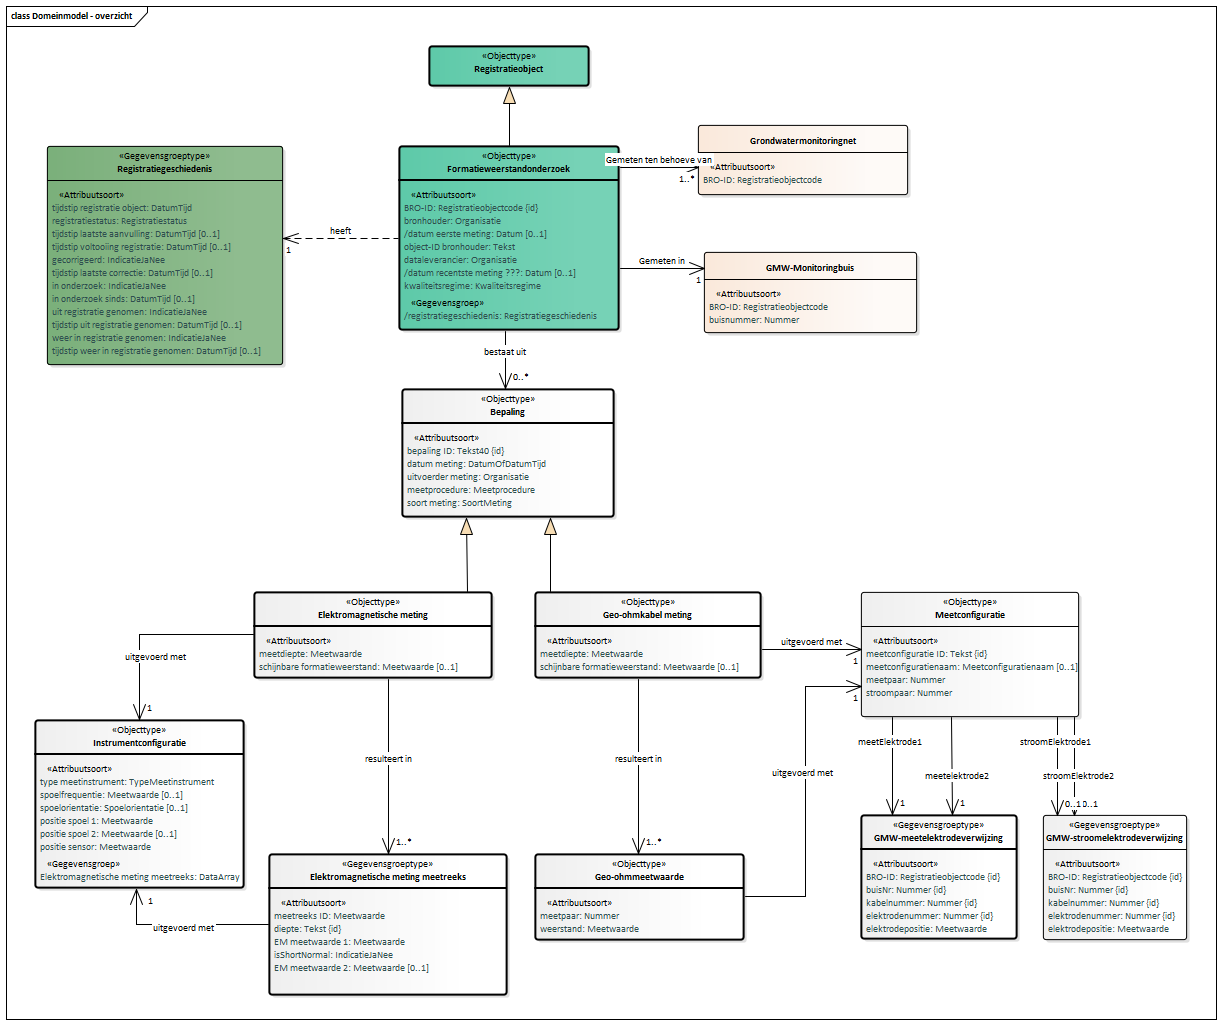
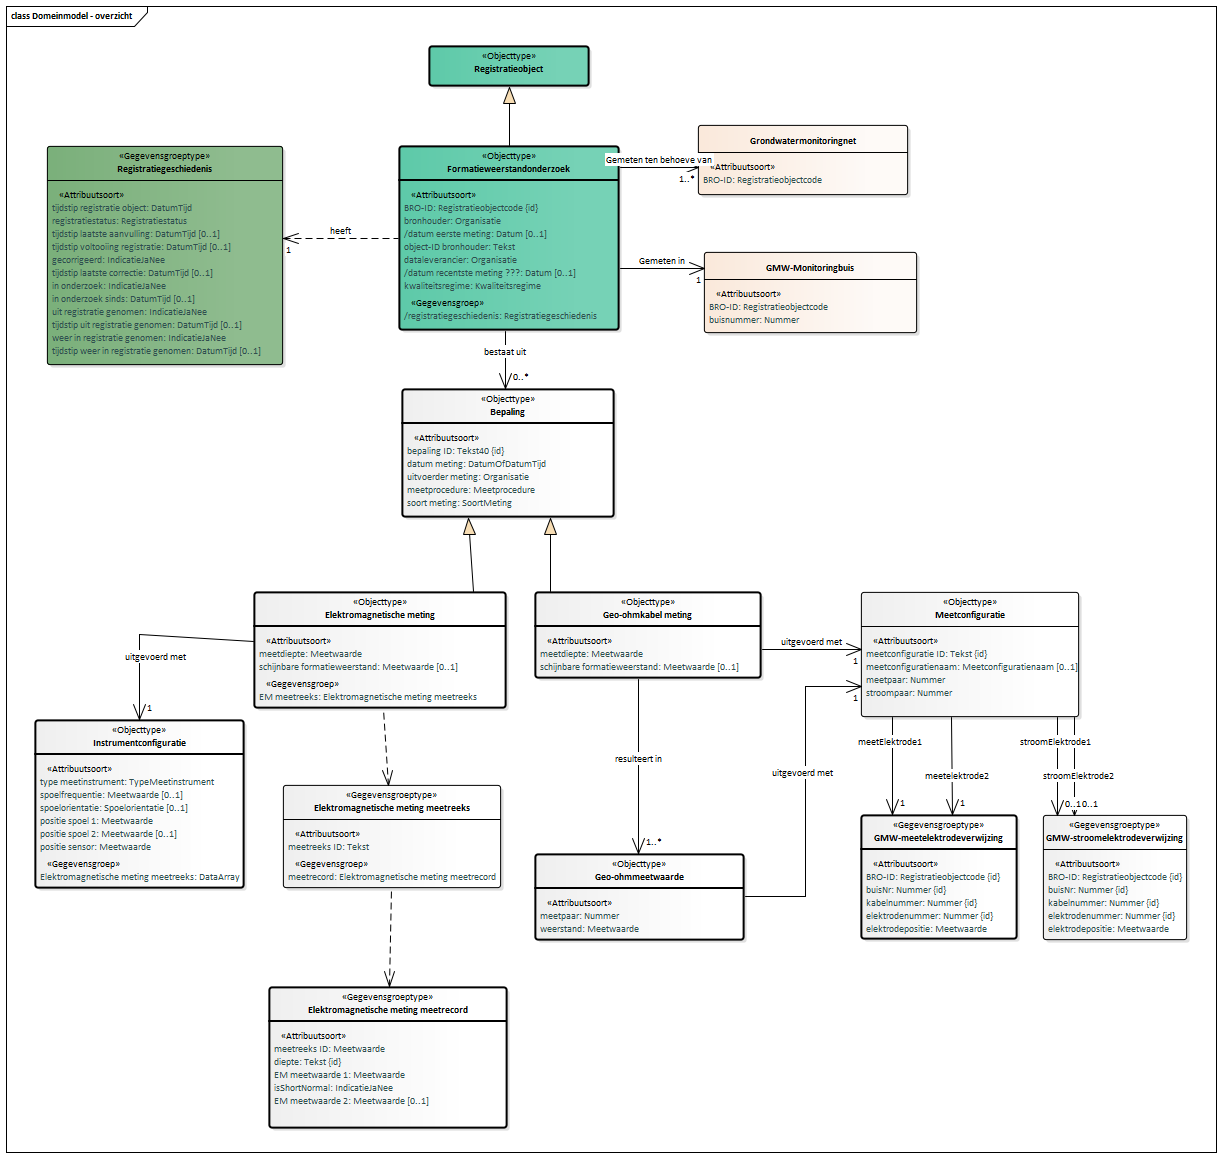
Conceptualmodel-FormatieweerstandonderzoekFRDconceptueel-0.1-1-20200401-20200814-160755

diff --git a/data/FRD-cat.msword.html b/data/FRD-cat.msword.html
@@ -15,7 +15,7 @@
    <body>
       <p>Conceptual model/Formatieweerstand onderzoek (FRD) conceptueel/20200401</p>
       <p>Imvertor: 1.61.2</p>
-      <p>Model release: Conceptualmodel-FormatieweerstandonderzoekFRDconceptueel-0.1-1-20200401-20200814-154055</p>
+      <p>Model release: Conceptualmodel-FormatieweerstandonderzoekFRDconceptueel-0.1-1-20200401-20200814-160755</p>
       <hr>
       <section>
          <h1>Artikel 1 Definitie van registratieobject, entiteiten en attributen</h1>
@@ -60,7 +60,7 @@
          <section>
             <h2>Het domeinmodel</h2>
             <section id="">
-               <div class="imageinfo overview"><img src="Images/EAID_0B3602DB_544E_4f6f_A6E2_DDE4A8A6790E.png" usemap="#imagemap-EAID_0B3602DB_544E_4f6f_A6E2_DDE4A8A6790E" alt="Diagram "><map name="imagemap-EAID_0B3602DB_544E_4f6f_A6E2_DDE4A8A6790E"><area shape="rect" alt="GMW-stroomelektrodeverwijzing" coords="1043,815,1187,940" href="#graph_EAID_561565B3_15F2_4942_B5C4_E03BCE867EEE"><area shape="rect" alt="Geo-ohmmeetwaarde" coords="535,854,744,940" href="#graph_EAID_0E73504D_4081_4ea3_A7AA_1FB27FBC227B"><area shape="rect" alt="Instrumentconfiguratie" coords="35,720,244,888" href="#graph_EAID_C4102470_4315_4bda_9B2A_59EDEA9E2834"><area shape="rect" alt="Meetconfiguratie" coords="861,592,1079,717" href="#graph_EAID_04636D26_BFC4_4838_AC91_21BB2BF62212"><area shape="rect" alt="Elektromagnetische meting meetreeks" coords="269,854,507,995" href="#graph_EAID_17DB4860_7353_467e_89CD_5018D22D8A43"><area shape="rect" alt="Elektromagnetische meting" coords="254,592,492,678" href="#graph_EAID_A1A80DF7_7D38_4063_8DE9_80EDAAF846B4"><area shape="rect" alt="Geo-ohmkabel meting" coords="535,592,761,678" href="#graph_EAID_16AE0361_B385_4410_A632_F5CDCEEC8FD1"><area shape="rect" alt="GMW-meetelektrodeverwijzing" coords="861,815,1017,939" href="#graph_EAID_EFFFB8A0_3810_43f9_83F1_FC48EFD1FE4E"><area shape="rect" alt="Bepaling" coords="402,389,614,517" href="#graph_EAID_D3B48B39_96CC_4f01_91F1_BDF0B725CD8A"><area shape="rect" alt="Registratiegeschiedenis" coords="47,146,283,365" href="#graph_EAID_0451B041_6862_420f_9E12_9829516BAF81"><area shape="rect" alt="Formatieweerstandonderzoek" coords="399,146,619,330" href="#graph_EAID_F03C2FC8_5705_46dc_927D_01B7EC61C2F2"><area shape="rect" alt="Registratieobject" coords="429,46,589,86" href="#graph_EAID_5706F7F6_075B_46d6_A47D_7DCF1EEB21B7"></map><p><b>Domeinmodel</b></p>
+               <div class="imageinfo overview"><img src="Images/EAID_0B3602DB_544E_4f6f_A6E2_DDE4A8A6790E.png" usemap="#imagemap-EAID_0B3602DB_544E_4f6f_A6E2_DDE4A8A6790E" alt="Diagram "><map name="imagemap-EAID_0B3602DB_544E_4f6f_A6E2_DDE4A8A6790E"><area shape="rect" alt="Elektromagnetische meting meetreeks" coords="283,785,501,888" href="#graph_EAID_33450642_9C84_4c07_AFE3_FB734FBA8DBB"><area shape="rect" alt="GMW-stroomelektrodeverwijzing" coords="1043,815,1187,940" href="#graph_EAID_561565B3_15F2_4942_B5C4_E03BCE867EEE"><area shape="rect" alt="Geo-ohmmeetwaarde" coords="535,854,744,940" href="#graph_EAID_0E73504D_4081_4ea3_A7AA_1FB27FBC227B"><area shape="rect" alt="Instrumentconfiguratie" coords="35,720,244,888" href="#graph_EAID_C4102470_4315_4bda_9B2A_59EDEA9E2834"><area shape="rect" alt="Meetconfiguratie" coords="861,592,1079,717" href="#graph_EAID_04636D26_BFC4_4838_AC91_21BB2BF62212"><area shape="rect" alt="Elektromagnetische meting meetrecord" coords="269,987,507,1128" href="#graph_EAID_17DB4860_7353_467e_89CD_5018D22D8A43"><area shape="rect" alt="Elektromagnetische meting" coords="254,592,506,708" href="#graph_EAID_A1A80DF7_7D38_4063_8DE9_80EDAAF846B4"><area shape="rect" alt="Geo-ohmkabel meting" coords="535,592,761,678" href="#graph_EAID_16AE0361_B385_4410_A632_F5CDCEEC8FD1"><area shape="rect" alt="GMW-meetelektrodeverwijzing" coords="861,815,1017,939" href="#graph_EAID_EFFFB8A0_3810_43f9_83F1_FC48EFD1FE4E"><area shape="rect" alt="Bepaling" coords="402,389,614,517" href="#graph_EAID_D3B48B39_96CC_4f01_91F1_BDF0B725CD8A"><area shape="rect" alt="Registratiegeschiedenis" coords="47,146,283,365" href="#graph_EAID_0451B041_6862_420f_9E12_9829516BAF81"><area shape="rect" alt="Formatieweerstandonderzoek" coords="399,146,619,330" href="#graph_EAID_F03C2FC8_5705_46dc_927D_01B7EC61C2F2"><area shape="rect" alt="Registratieobject" coords="429,46,589,86" href="#graph_EAID_5706F7F6_075B_46d6_A47D_7DCF1EEB21B7"></map><p><b>Domeinmodel</b></p>
                </div>
             </section>
          </section>
@@ -1653,7 +1653,7 @@
                         </tbody>
                      </table>
                      </section>
-               </section><a class="anchor" id="graph_EAID_17DB4860_7353_467e_89CD_5018D22D8A43"></a><a class="anchor" id="global_class_Model_Elektromagnetischemetingmeetreeks"></a><section id="global_class_Model_Elektromagnetischemetingmeetreeks">
+               </section><a class="anchor" id="graph_EAID_33450642_9C84_4c07_AFE3_FB734FBA8DBB"></a><a class="anchor" id="global_class_Model_Elektromagnetischemetingmeetreeks"></a><section id="global_class_Model_Elektromagnetischemetingmeetreeks">
                   <h3>   Elektromagnetische meting meetreeks</h3>
                   <table style="width: 100%;">
                      <colgroup style="width: 30%;"></colgroup>
@@ -1703,12 +1703,67 @@
                            </tr>
                            <tr>
                               <th>&nbsp;&nbsp;Naam</th>
+                              <td>Tekst </td>
+                           </tr>
+                        </tbody>
+                     </table>
+                     </section>
+               </section><a class="anchor" id="graph_EAID_17DB4860_7353_467e_89CD_5018D22D8A43"></a><a class="anchor" id="global_class_Model_Elektromagnetischemetingmeetrecord"></a><section id="global_class_Model_Elektromagnetischemetingmeetrecord">
+                  <h3>   Elektromagnetische meting meetrecord</h3>
+                  <table style="width: 100%;">
+                     <colgroup style="width: 30%;"></colgroup>
+                     <colgroup style="width: 70%;"></colgroup>
+                     <tbody>
+                        <tr>
+                           <th>Type gegeven</th>
+                           <td>Entiteit</td>
+                        </tr>
+                        <tr>
+                           <th>Definitie</th>
+                           <td>
+                              
+                              <p>De meetreeks behorende bij de elektromagnetische meting</p>
+                              </td>
+                        </tr>
+                     </tbody>
+                  </table><a class="anchor" id="detail_attribute_Model_Elektromagnetischemetingmeetrecord_meetreeksID"></a><section id="detail_attribute_Model_Elektromagnetischemetingmeetrecord_meetreeksID">
+                     <h4>  meetreeks ID</h4>
+                     
+                     <table style="width: 100%;">
+                        <colgroup style="width: 30%;"></colgroup>
+                        <colgroup style="width: 70%;"></colgroup>
+                        <tbody>
+                           <tr>
+                              <th>Type gegeven</th>
+                              <td>Attribuut van Elektromagnetische meting meetrecord</td>
+                           </tr>
+                           <tr>
+                              <th>Definitie</th>
+                              <td>
+                                 
+                                 <p>TODO</p>
+                                 </td>
+                           </tr>
+                           <tr>
+                              <th>Juridische status</th>
+                              <td>Authentiek</td>
+                           </tr>
+                           <tr>
+                              <th>Kardinaliteit</th>
+                              <td>1</td>
+                           </tr>
+                           <tr>
+                              <th>Domein</th>
+                              <td></td>
+                           </tr>
+                           <tr>
+                              <th>&nbsp;&nbsp;Naam</th>
                               <td>Meetwaarde 
                                  </td>
                            </tr>
                         </tbody>
                      </table>
-                     </section><a class="anchor" id="detail_attribute_Model_Elektromagnetischemetingmeetreeks_diepte"></a><section id="detail_attribute_Model_Elektromagnetischemetingmeetreeks_diepte">
+                     </section><a class="anchor" id="detail_attribute_Model_Elektromagnetischemetingmeetrecord_diepte"></a><section id="detail_attribute_Model_Elektromagnetischemetingmeetrecord_diepte">
                      <h4>  diepte</h4>
                      
                      <table style="width: 100%;">
@@ -1717,7 +1772,7 @@
                         <tbody>
                            <tr>
                               <th>Type gegeven</th>
-                              <td>Attribuut van Elektromagnetische meting meetreeks</td>
+                              <td>Attribuut van Elektromagnetische meting meetrecord</td>
                            </tr>
                            <tr>
                               <th>Definitie</th>
@@ -1745,7 +1800,7 @@
                            </tr>
                         </tbody>
                      </table>
-                     </section><a class="anchor" id="detail_attribute_Model_Elektromagnetischemetingmeetreeks_EMmeetwaarde1"></a><section id="detail_attribute_Model_Elektromagnetischemetingmeetreeks_EMmeetwaarde1">
+                     </section><a class="anchor" id="detail_attribute_Model_Elektromagnetischemetingmeetrecord_EMmeetwaarde1"></a><section id="detail_attribute_Model_Elektromagnetischemetingmeetrecord_EMmeetwaarde1">
                      <h4>  EM meetwaarde 1</h4>
                      
                      <table style="width: 100%;">
@@ -1754,7 +1809,7 @@
                         <tbody>
                            <tr>
                               <th>Type gegeven</th>
-                              <td>Attribuut van Elektromagnetische meting meetreeks</td>
+                              <td>Attribuut van Elektromagnetische meting meetrecord</td>
                            </tr>
                            <tr>
                               <th>Definitie</th>
@@ -1790,7 +1845,7 @@
                            </tr>
                         </tbody>
                      </table>
-                     </section><a class="anchor" id="detail_attribute_Model_Elektromagnetischemetingmeetreeks_isShortNormal"></a><section id="detail_attribute_Model_Elektromagnetischemetingmeetreeks_isShortNormal">
+                     </section><a class="anchor" id="detail_attribute_Model_Elektromagnetischemetingmeetrecord_isShortNormal"></a><section id="detail_attribute_Model_Elektromagnetischemetingmeetrecord_isShortNormal">
                      <h4>  isShortNormal</h4>
                      
                      <table style="width: 100%;">
@@ -1799,7 +1854,7 @@
                         <tbody>
                            <tr>
                               <th>Type gegeven</th>
-                              <td>Attribuut van Elektromagnetische meting meetreeks</td>
+                              <td>Attribuut van Elektromagnetische meting meetrecord</td>
                            </tr>
                            <tr>
                               <th>Definitie</th>
@@ -1830,7 +1885,7 @@
                            </tr>
                         </tbody>
                      </table>
-                     </section><a class="anchor" id="detail_attribute_Model_Elektromagnetischemetingmeetreeks_EMmeetwaarde2"></a><section id="detail_attribute_Model_Elektromagnetischemetingmeetreeks_EMmeetwaarde2">
+                     </section><a class="anchor" id="detail_attribute_Model_Elektromagnetischemetingmeetrecord_EMmeetwaarde2"></a><section id="detail_attribute_Model_Elektromagnetischemetingmeetrecord_EMmeetwaarde2">
                      <h4>  EM meetwaarde 2</h4>
                      
                      <table style="width: 100%;">
@@ -1839,7 +1894,7 @@
                         <tbody>
                            <tr>
                               <th>Type gegeven</th>
-                              <td>Attribuut van Elektromagnetische meting meetreeks</td>
+                              <td>Attribuut van Elektromagnetische meting meetrecord</td>
                            </tr>
                            <tr>
                               <th>Definitie</th>
